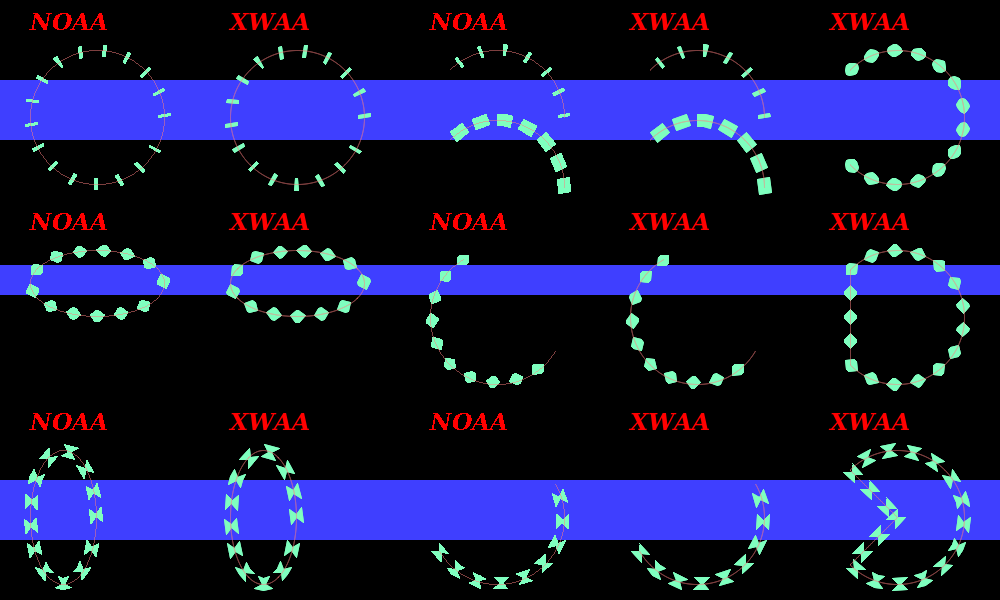
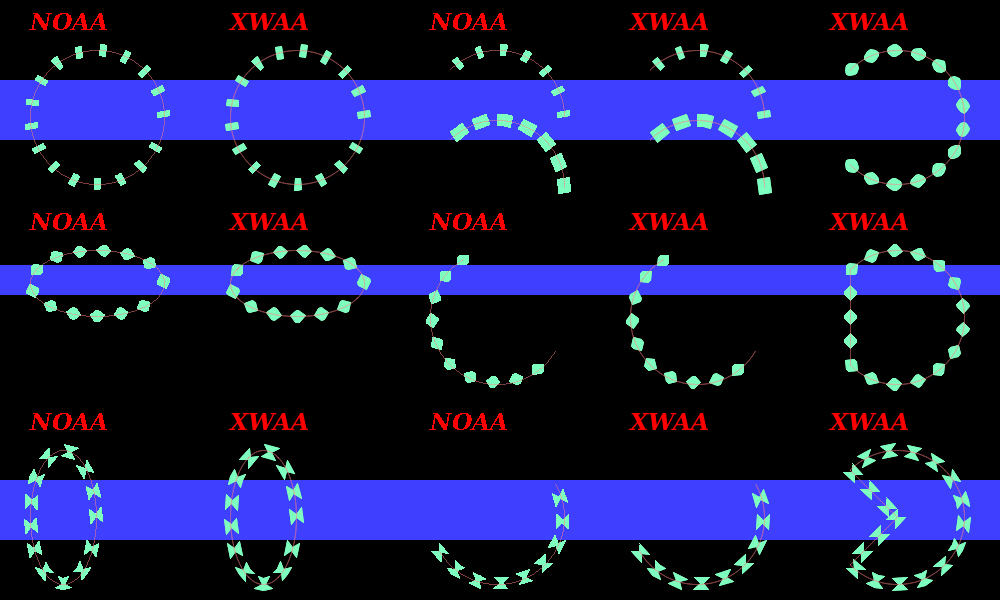
Working on thick line

diff --git a/src/Pt-Gfx/ImagePainter2.cpp b/src/Pt-Gfx/ImagePainter2.cpp
@@ -638,7 +638,7 @@ void ImagePainter2::drawLine( const PointF& from, const PointF& to )
     }
     else {
         Pt::int32_t piCtrInOut = 0;
-        generatePatternedLineSegment(pointsF, from.x(), from.y(), to.x(), to.y(), piCtrInOut);
+        generatePatternedSingleLineSegment(pointsF, from.x(), from.y(), to.x(), to.y(), piCtrInOut);
     }
 
     // Rasterize the polygon
@@ -1545,6 +1545,7 @@ struct ImagePainter2::SAGOpState {
     float                px, py;     // Current interpolation coordinate (in-between the two points)
     float                ex, ey;     // Current end coordinate (coordinate of the the second point)
     float                uvx, uvy;   // Unit vector from the first point to the second point
+    float                cvx, cvy;   // Cell vector from the first point to the second point
     float                remLen;     // Remaining length between the two points that has not been "consumed" by the "pattern" segment(s)
 
     std::vector<PointF>  gather;     // Gathered polygon points
@@ -1557,7 +1558,7 @@ struct ImagePainter2::SAGOpState {
     {}
 };
 
-void ImagePainter2::generatePatternedLineSegment(std::vector<PointF>& dst, float x1, float y1, float x2, float y2, Pt::int32_t& piCtrInOut)
+void ImagePainter2::generatePatternedSingleLineSegment(std::vector<PointF>& dst, float x1, float y1, float x2, float y2, Pt::int32_t& piCtrInOut)
 {
     // Calculate the line's parameters
     float wh, dx, dy, nx, ny;
@@ -1569,7 +1570,7 @@ void ImagePainter2::generatePatternedLineSegment(std::vector<PointF>& dst, float
     const float        xLen  = (x2 > x1) ? (x2 - x1) : (x1 - x2);
     const float        yLen  = (y2 > y1) ? (y2 - y1) : (y1 - y2);
     const float        lLen  = Gfx::Math::fastSqrt(xLen * xLen + yLen * yLen);
-    const size_t       nSegs = round(lLen / wh) * 2;
+    const size_t       nSegs = (size_t) round(lLen / wh) * 2;
     const float        xInc  = (x2 - x1) / nSegs;
     const float        yInc  = (y2 - y1) / nSegs;
 
@@ -1696,17 +1697,27 @@ bool ImagePainter2::sagPolygonPoints(SAGOpState& state, bool draw)
             state.ey     = y2;
             state.uvx    = vx / vz;
             state.uvy    = vy / vz;
+            state.cvx    = state.uvx * state.cellSize;
+            state.cvy    = state.uvy * state.cellSize;
             state.remLen = vz;
-            lprintf("    Initialize: px = %5.1f ; py = %5.1f ; ex = %5.1f ; ey = %5.1f ; remLen = %5.1f ; patSegLen = %5.1f ; from index [%2zd, %2zd]\n",
-                    state.px, state.py, state.ex, state.ey, state.remLen, state.patSegLen, state.idx1, state.idx1 + 1);
+            //lprintf("    Initialize: px = %5.1f ; py = %5.1f ; ex = %5.1f ; ey = %5.1f ; remLen = %5.1f ; patSegLen = %5.1f ; from index [%2zd, %2zd]\n",
+            //        state.px, state.py, state.ex, state.ey, state.remLen, state.patSegLen, state.idx1, state.idx1 + 1);
         }
 
         // If we have the complete length from the gathered points, process them into a thick polygon
         if(state.gatherLen >= state.patSegLen) {
             // Generate one solid polygon segment as needed
-            if(draw) sagGeneratePolyLineSegment(state);
-            if(draw) lprintf("    Poly Draw : patSegLen = %5.1f ; remLen = %5.1f ; point count = %zd\n", state.patSegLen, state.remLen, state.gather.size());
-            else     lprintf("    Poly Skip : patSegLen = %5.1f ; remLen = %5.1f ; point count = %zd\n", state.patSegLen, state.remLen, state.gather.size());
+            if(draw) {
+                if(_rasterizer->pen().capStyle() == Pen::ButtCap) {
+                    state.gather.back().set(
+                        state.gather.back().x() + state.cvx,
+                        state.gather.back().y() + state.cvy
+                    );
+                }
+                sagGeneratePolyLineSegment(state);
+            }
+            //if(draw) lprintf("    Poly Draw : patSegLen = %5.1f ; remLen = %5.1f ; point count = %zd\n", state.patSegLen, state.remLen, state.gather.size());
+            //else     lprintf("    Poly Skip : patSegLen = %5.1f ; remLen = %5.1f ; point count = %zd\n", state.patSegLen, state.remLen, state.gather.size());
             // Reset the "pattern" segment length
             state.patSegLen = 0.0f;
             // Reset the gather buffer
@@ -1718,9 +1729,29 @@ bool ImagePainter2::sagPolygonPoints(SAGOpState& state, bool draw)
         // If we have enough remainder length, process the polygon's edge as a simple line segment
         if(state.gather.empty() && state.remLen >= state.patSegLen) {
             // Generate a simple line segment as needed
-            if(draw) sagGenerateSimpleLineSegment(state, state.px, state.py, state.px + state.uvx * state.patSegLen, state.py + state.uvy * state.patSegLen);
-            if(draw) lprintf("    Line Draw : patSegLen = %5.1f ; remLen = %5.1f ; line (%5.1f, %5.1f) - (%5.1f, %5.1f)\n", state.patSegLen, state.remLen, state.px, state.py, state.px + state.uvx * state.patSegLen, state.py + state.uvy * state.patSegLen);
-            else     lprintf("    Line Skip : patSegLen = %5.1f ; remLen = %5.1f ; line (%5.1f, %5.1f) - (%5.1f, %5.1f)\n", state.patSegLen, state.remLen, state.px, state.py, state.px + state.uvx * state.patSegLen, state.py + state.uvy * state.patSegLen);
+            if(draw) {
+                if(_rasterizer->pen().capStyle() == Pen::ButtCap) {
+                    sagGenerateSimpleLineSegment(
+                        state,
+                        state.px,
+                        state.py,
+                        state.px + state.cvx + state.uvx * state.patSegLen,
+                        state.py + state.cvy + state.uvy * state.patSegLen
+                    );
+
+                }
+                else {
+                    sagGenerateSimpleLineSegment(
+                        state,
+                        state.px,
+                        state.py,
+                        state.px + state.uvx * state.patSegLen,
+                        state.py + state.uvy * state.patSegLen
+                    );
+                }
+            }
+            //if(draw) lprintf("    Line Draw : patSegLen = %5.1f ; remLen = %5.1f ; line (%5.1f, %5.1f) - (%5.1f, %5.1f)\n", state.patSegLen, state.remLen, state.px, state.py, state.px + state.uvx * state.patSegLen, state.py + state.uvy * state.patSegLen);
+            //else     lprintf("    Line Skip : patSegLen = %5.1f ; remLen = %5.1f ; line (%5.1f, %5.1f) - (%5.1f, %5.1f)\n", state.patSegLen, state.remLen, state.px, state.py, state.px + state.uvx * state.patSegLen, state.py + state.uvy * state.patSegLen);
             // Substract the remainder length
             state.remLen -= state.patSegLen;
             // Reset the "pattern" segment length
@@ -1730,12 +1761,12 @@ bool ImagePainter2::sagPolygonPoints(SAGOpState& state, bool draw)
                 // Update the interpolation coordinate
                 state.px = state.ex - state.uvx * state.remLen;
                 state.py = state.ey - state.uvy * state.remLen;
-                lprintf("    Excess    : px = %5.1f ; py = %5.1f ; remLen = %5.1f\n", state.px, state.py, state.remLen);
+                //lprintf("    Excess    : px = %5.1f ; py = %5.1f ; remLen = %5.1f\n", state.px, state.py, state.remLen);
             }
             else {
                 // Reset the remainder length and increment the point index so that the next time
                 // this loop is running, the next point within the polygon will be processed
-                lprintf("    Consumed  : remLen = %5.1f\n", state.remLen);
+                //lprintf("    Consumed  : remLen = %5.1f\n", state.remLen);
                 state.remLen = -1.0f;
                 ++state.idx1;
             }
@@ -1751,14 +1782,14 @@ bool ImagePainter2::sagPolygonPoints(SAGOpState& state, bool draw)
         // Store the current interpolation coordinate to the "gather" buffer as needed
         if(state.gather.empty() || state.gather.back().x() != state.px || state.gather.back().y() != state.py) {
             state.gather.push_back(PointF(state.px, state.py));
-            lprintf("    Gather P  : patSegLen = %5.1f ; remLen = %5.1f ; gatherLen = %5.1f ; segment (%5.1f, %5.1f) - (%5.1f, %5.1f) from index [%2zd, %2zd]; new gather.size() = %zd\n", state.patSegLen, state.remLen, state.gatherLen, state.px, state.py, state.ex, state.ey, state.idx1, state.idx1 + 1, state.gather.size());
+            //lprintf("    Gather P  : patSegLen = %5.1f ; remLen = %5.1f ; gatherLen = %5.1f ; segment (%5.1f, %5.1f) - (%5.1f, %5.1f) from index [%2zd, %2zd]; new gather.size() = %zd\n", state.patSegLen, state.remLen, state.gatherLen, state.px, state.py, state.ex, state.ey, state.idx1, state.idx1 + 1, state.gather.size());
         }
         // If the combined length is less than or equal to the "pattern" segment length, simply store the end coordinate
         if(state.gatherLen + state.remLen <= state.patSegLen) {
             // Store the end coordinate
             state.gather.push_back(PointF(state.ex, state.ey));
             state.gatherLen += state.remLen;
-            lprintf("    Gather E  : patSegLen = %5.1f ; remLen = %5.1f ; gatherLen = %5.1f ; segment (%5.1f, %5.1f) - (%5.1f, %5.1f) from index [%2zd, %2zd]; new gather.size() = %zd\n", state.patSegLen, state.remLen, state.gatherLen, state.px, state.py, state.ex, state.ey, state.idx1, state.idx1 + 1, state.gather.size());
+            //printf("    Gather E  : patSegLen = %5.1f ; remLen = %5.1f ; gatherLen = %5.1f ; segment (%5.1f, %5.1f) - (%5.1f, %5.1f) from index [%2zd, %2zd]; new gather.size() = %zd\n", state.patSegLen, state.remLen, state.gatherLen, state.px, state.py, state.ex, state.ey, state.idx1, state.idx1 + 1, state.gather.size());
             // Reset the remainder length and increment the point index so that the next time
             // this loop is running, the next point within the polygon will be processed
             state.remLen = -1.0f;
@@ -1779,11 +1810,11 @@ bool ImagePainter2::sagPolygonPoints(SAGOpState& state, bool draw)
             if(state.remLen <= 0.0f) {
                 // Reset the remainder length and increment the point index so that the next time
                 // this loop is running, the next point within the polygon will be processed
-                lprintf("    Consumed  : remLen = %5.1f\n", state.remLen);
+                //lprintf("    Consumed  : remLen = %5.1f\n", state.remLen);
                 state.remLen = -1.0f;
                 ++state.idx1;
             }
-            lprintf("    Gather I  : patSegLen = %5.1f ; remLen = %5.1f ; gatherLen = %5.1f ; segment (%5.1f, %5.1f) - (%5.1f, %5.1f) from index [%2zd, %2zd]; new gather.size() = %zd\n", state.patSegLen, state.remLen, state.gatherLen, state.px, state.py, state.ex, state.ey, state.idx1, state.idx1 + 1, state.gather.size());
+            //lprintf("    Gather I  : patSegLen = %5.1f ; remLen = %5.1f ; gatherLen = %5.1f ; segment (%5.1f, %5.1f) - (%5.1f, %5.1f) from index [%2zd, %2zd]; new gather.size() = %zd\n", state.patSegLen, state.remLen, state.gatherLen, state.px, state.py, state.ex, state.ey, state.idx1, state.idx1 + 1, state.gather.size());
         }
 
     } // while()

diff --git a/include/Pt/Gfx/ImagePainter2.h b/include/Pt/Gfx/ImagePainter2.h
@@ -215,7 +215,7 @@ class PT_GFX_API ImagePainter2 : public Painter
         bool combineLineSegmentForSolidOpenPolygon(std::vector<PointF>& polygon, std::vector<PointF>& inner, const std::vector<PointF>& segment, const PointF& origMeetingPoint, bool inSameSegment);
         bool combineLineSegmentForSolidClosedPolygon(std::vector<PointF>& outer, std::vector<PointF>& inner, const std::vector<PointF>& segment, const PointF& origMeetingPoint, bool isFirst, bool isLast, bool inSameSegment);
 
-        void generatePatternedLineSegment(std::vector<PointF>& dst, float x1, float y1, float x2, float y2, Pt::int32_t& piCtrInOut);
+        void generatePatternedSingleLineSegment(std::vector<PointF>& dst, float x1, float y1, float x2, float y2, Pt::int32_t& piCtrInOut);
         void thickenPatternedPolygon(std::vector<PointF>& pointsF, const PointF* src, size_t pointCount);
         bool sagPolygonPoints(SAGOpState& state, bool draw);
         void sagGenerateSimpleLineSegment(SAGOpState& state, float x1, float y1, float x2, float y2);

diff --git a/src/Pt-Gfx/tests/ImagePainterTest2.cpp b/src/Pt-Gfx/tests/ImagePainterTest2.cpp
@@ -67,16 +67,16 @@ using namespace Pt::Gfx;
 
 // General settings for Pt-Gfx
 #define DO_TEST_DRAW    1
-#define DO_BENCHMARKING 0
+#define DO_BENCHMARKING 1
 
 // Detailed-test enable settings for Pt-Gfx
 #define TEST_SOURCECOPY                         1
-#define TEST_SOURCEOVER                         1
+#define TEST_SOURCEOVER                         0
 
 #define TEST_DRAW_SOLID_LINE_AND_TEXT           0 // (including bezier)
 #define TEST_DRAW_PATTERNED_LINE                0 // (including bezier)
 #define TEST_DRAW_SOLID_THICK_LINE              0 // (including bezier)
-#define TEST_DRAW_PATTERNED_THICK_LINE          1 // (including bezier)
+#define TEST_DRAW_PATTERNED_THICK_LINE          0 // (including bezier)
 
 #define TEST_DRAW_OMPF_RECTANGLES               0 // (including thick and filled)
 #define TEST_DRAW_ROUND_OMPF_RECTANGLES         0 // (including thick and filled)
